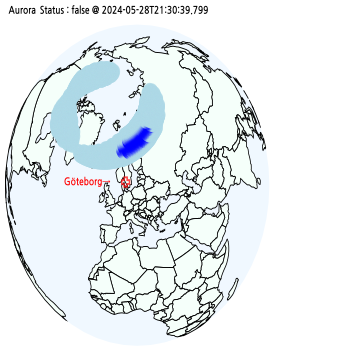
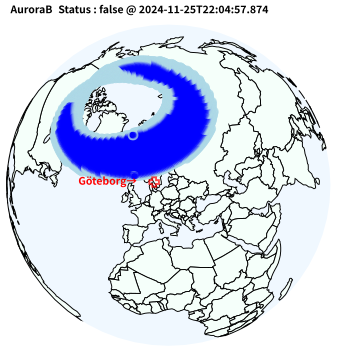
20241125220525 added aur.html

Changed region(s): [[0.0, 0.0917, 0.9706, 0.9472], [0.0294, 0.0, 0.7941, 0.0611]]

diff --git a/aur.html b/aur.html
@@ -7,6 +7,6 @@
 <body>
     <h1>Aurora Watch</h1>
     <img src="a.png" alt="Aurora Image" style="width:100%;max-width:600px;">
-    <p>Aurora Level 🌌= (0.0) was observed. (2024-05-28T21:30:39.799)</p>
+    <p>Aurora Level 🌌= (1.0) was observed. (2024-11-25T22:04:57.874)</p>
 </body>
 </html>
